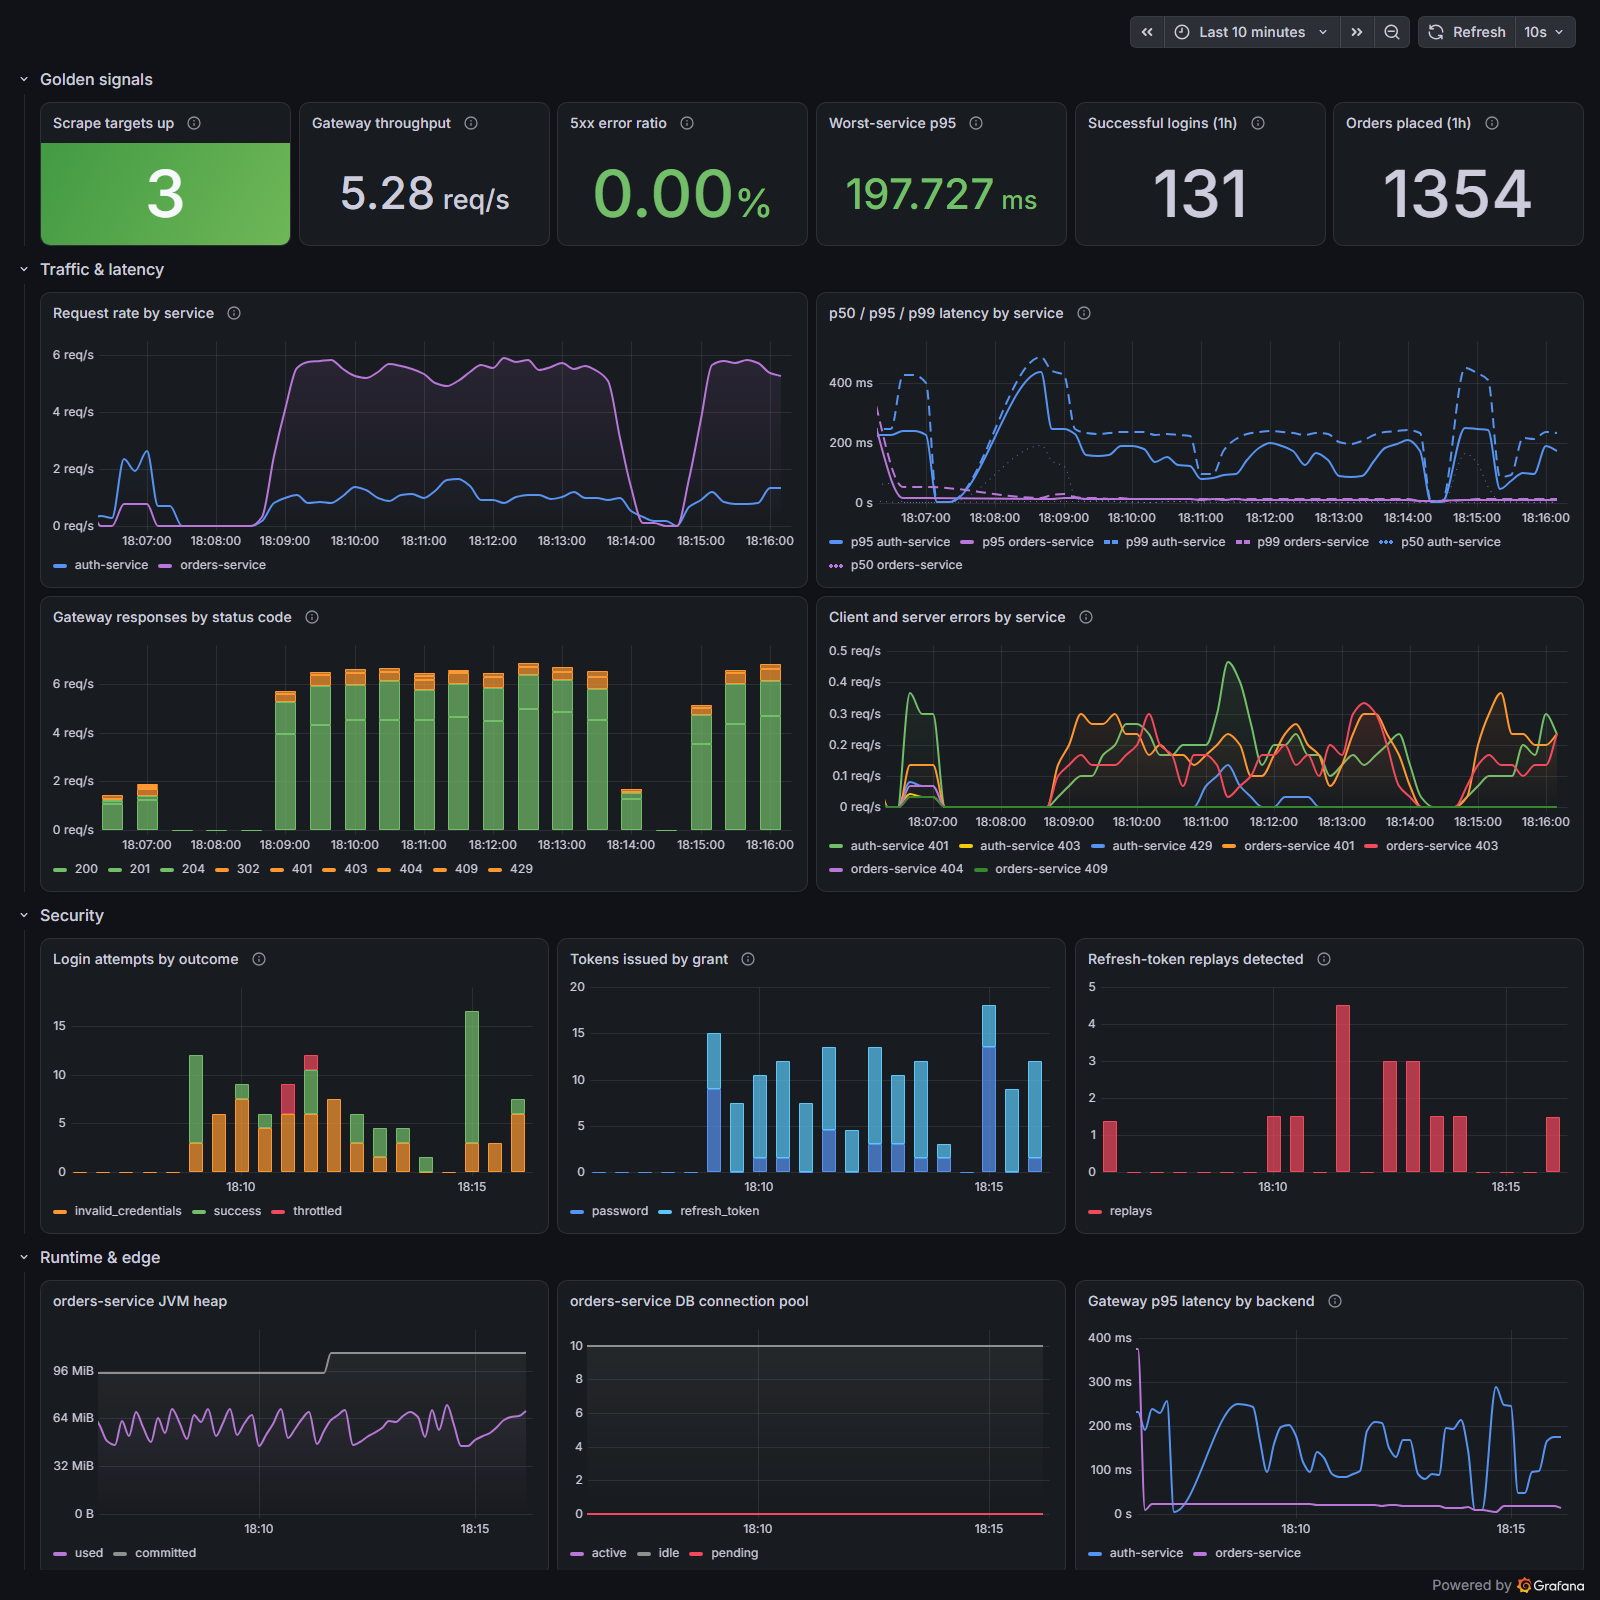
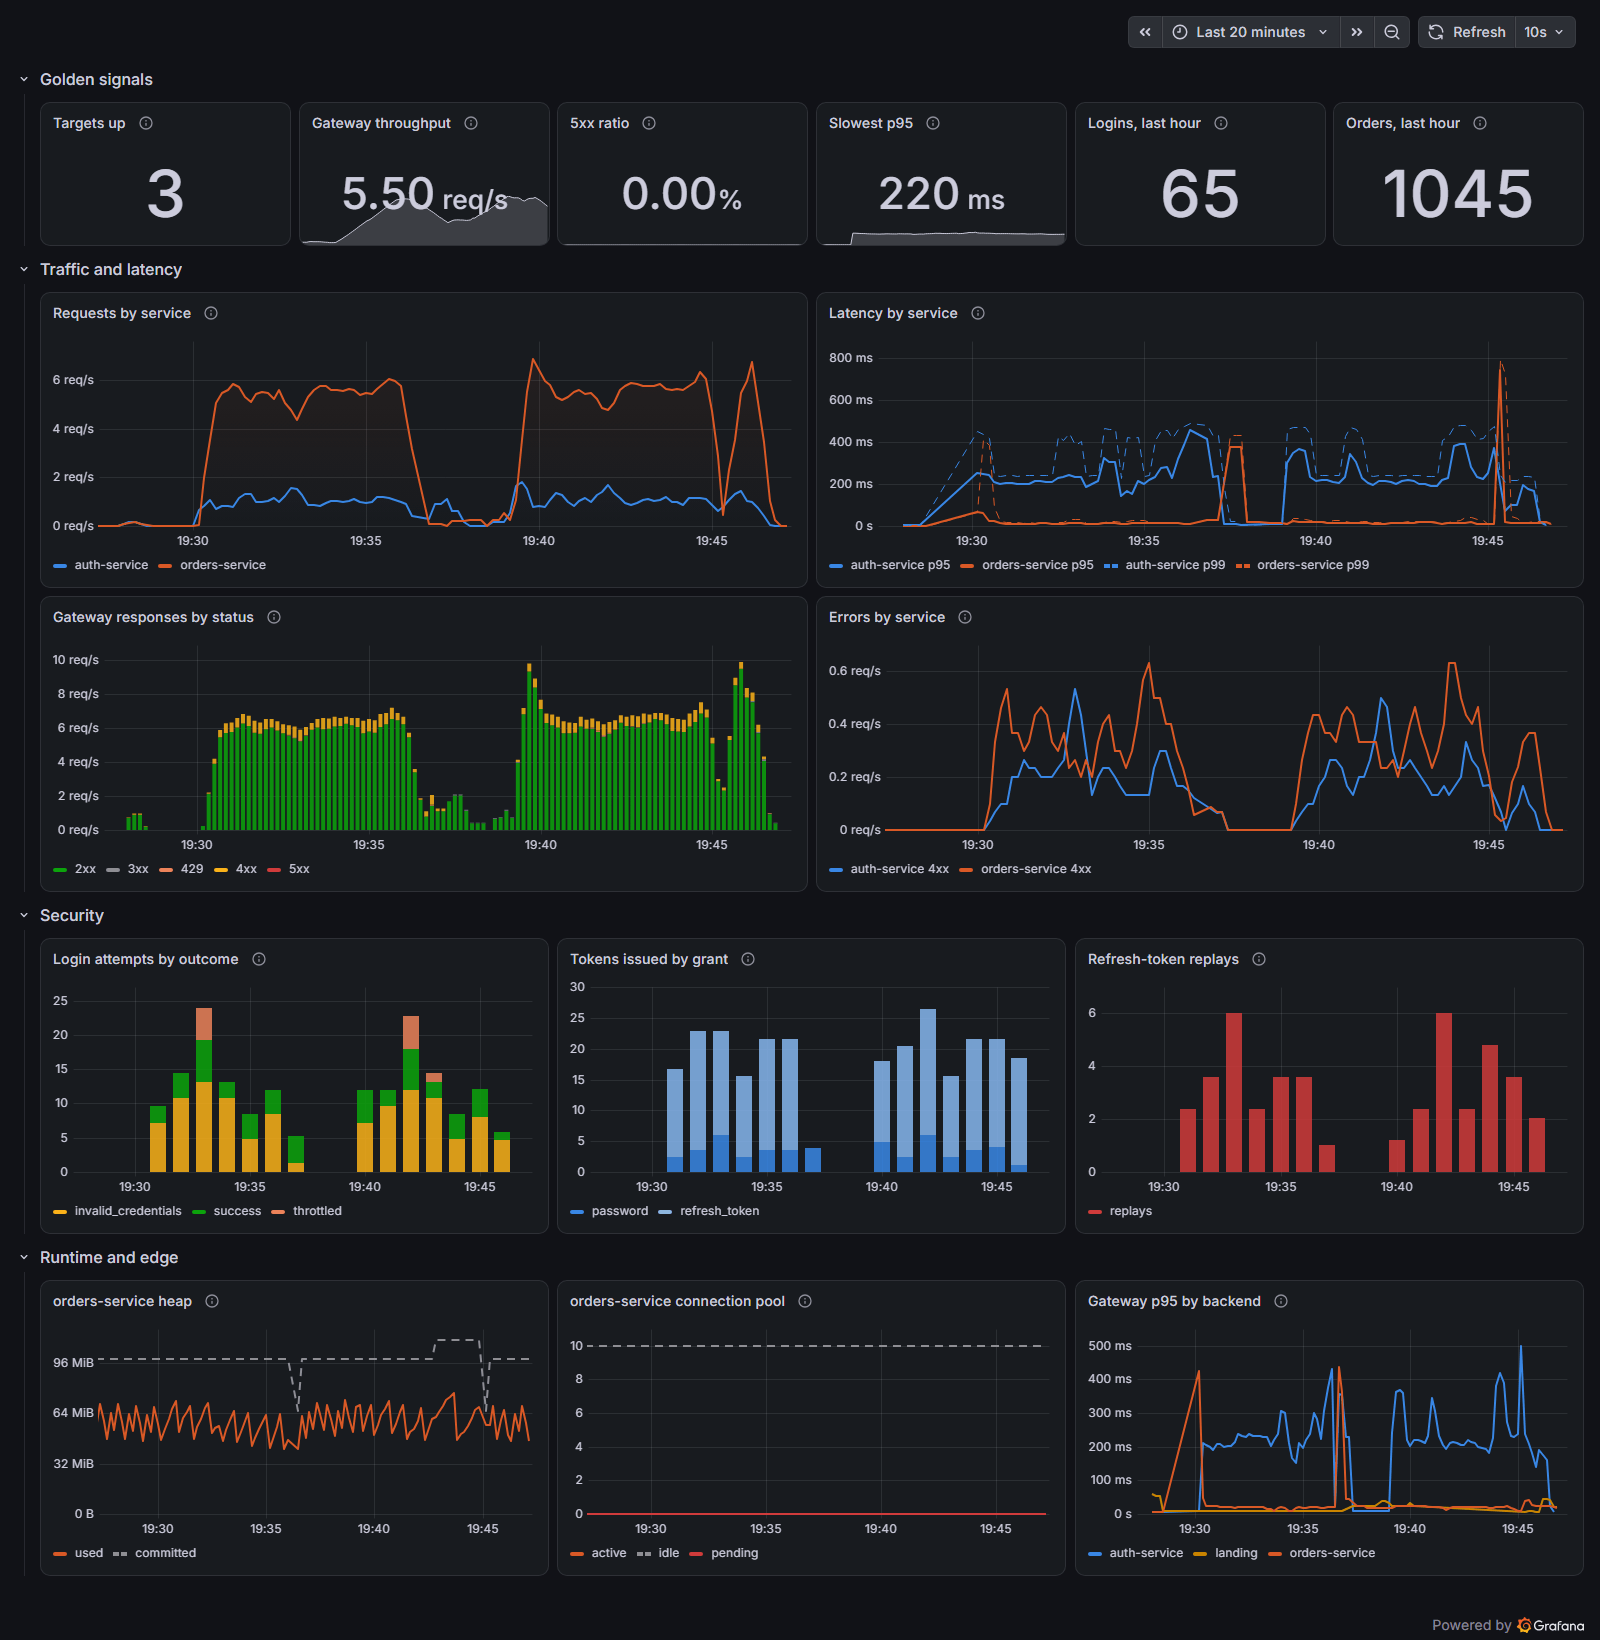
docs: add light/dark README hero and refresh screenshots
New hero SVGs (optimised with svgo, title and role kept), landing and
API docs screenshots, and a refreshed Grafana capture (sharp, palette
PNG). The README documents the landing service, its CSP, the dashboard's
colour system and the current test counts (79 auth, 49 orders, 28 e2e),
and corrects the Prometheus version to 3.15.

diff --git a/README.md b/README.md
@@ -1,3 +1,8 @@
+<picture>
+  <source media="(prefers-color-scheme: dark)" srcset="docs/images/hero-dark.svg">
+  <img alt="Secure Cloud Microservices Platform. Every request, verified." src="docs/images/hero-light.svg" width="100%">
+</picture>
+
 # Secure Cloud Microservices Platform
 
 [![CI](https://github.com/Arya-9989/secure-cloud-microservices-platform/actions/workflows/ci.yml/badge.svg)](https://github.com/Arya-9989/secure-cloud-microservices-platform/actions/workflows/ci.yml)
@@ -6,9 +11,16 @@ A small but production-shaped microservices platform: a **Python identity servic
 
 The platform is deliberately small. The interesting part is the engineering around the services: token lifecycle, authorization boundaries, supply-chain hygiene, and tests that exercise real tokens across language boundaries.
 
-![Grafana dashboard: golden signals, security events and runtime health](docs/screenshots/grafana-dashboard.png)
+The stack opens on a landing page at the gateway root. It explains the security model and probes the public endpoints live from your browser. Both API references share its theme.
 
-<sub>Provisioned Grafana dashboard after running `scripts/demo_traffic.py`. Refresh-token replays and throttled logins are generated on purpose.</sub>
+<picture>
+  <source media="(prefers-color-scheme: dark)" srcset="docs/screenshots/landing-dark.png">
+  <img alt="Landing page at the gateway root: the headline 'Every request, verified.' above a live console that probes the gateway, the auth-service JWKS, the orders-service metadata and the access policy." src="docs/screenshots/landing-light.png">
+</picture>
+
+| Auth API reference | Orders API reference |
+|---|---|
+| ![Auth service Swagger UI in the platform theme](docs/screenshots/auth-api-docs.png) | ![Orders service Swagger UI in the platform theme](docs/screenshots/orders-api-docs.png) |
 
 ## Contents
 
@@ -25,6 +37,7 @@ flowchart LR
     end
 
     subgraph backend ["backend network (internal, no internet)"]
+        landing["landing<br/>nginx (unprivileged)<br/>static page + docs theme"]
         auth["auth-service<br/>Python 3.12 · Django 6.1 · DRF<br/>issues RS256 JWTs + JWKS"]
         orders["orders-service<br/>Java 21 · Spring Boot 4.1<br/>OAuth2 resource server"]
         pg[("PostgreSQL 17<br/>db: auth · db: orders<br/>one role per service")]
@@ -36,6 +49,7 @@ flowchart LR
     end
 
     client -->|HTTPS :8443 / HTTP :8080| gw
+    gw -->|/ and /assets/| landing
     gw -->|/api/v1/auth, /.well-known/jwks.json| auth
     gw -->|/api/v1/orders, /api/v1/products| orders
     orders -. "JWKS fetch (cached, refetch on unknown kid)" .-> auth
@@ -89,9 +103,10 @@ sequenceDiagram
 |---|---|---|---|
 | **auth-service** | Python 3.12, Django 6.1, DRF 3.18, PyJWT, Argon2, gunicorn | Registration, login, RS256 access tokens, rotating refresh tokens, JWKS, user administration | 8000 API · 9100 metrics |
 | **orders-service** | Java 21, Spring Boot 4.1, Spring Security 7, JPA/Hibernate 7, Flyway | Product catalog and orders; OAuth2 resource server enforcing scopes, roles and ownership | 8080 API · 8081 management |
+| **landing** | nginx 1.30 (unprivileged, Alpine) | Static landing page at `/` and the shared theme for both API references. No server-side code; strict CSP with Trusted Types | 8080 (internal only) |
 | **gateway** | Traefik 3.7 (file provider, no Docker socket) | Single entry point, TLS, routing, rate limiting, headers, access logs | 8080 HTTP · 8443 HTTPS · 8082 metrics |
 | **postgres** | PostgreSQL 17 | Separate database and least-privilege role per service | 5432 (internal only) |
-| **prometheus** / **grafana** | Prometheus 3.9, Grafana 13.2 | Metrics, alert rules, provisioned dashboard | 9090 / 3000 (localhost only) |
+| **prometheus** / **grafana** | Prometheus 3.15, Grafana 13.2 | Metrics, alert rules, provisioned dashboard | 9090 / 3000 (localhost only) |
 
 ## Security model
 
@@ -110,6 +125,7 @@ sequenceDiagram
 | Secrets in source | None. `scripts/init_env.py` generates `.env` locally (git-ignored), and the services refuse to start without required secrets | `.env.example`, `settings.py` |
 | Container breakout / lateral movement | Non-root users, read-only root filesystems, all capabilities dropped, `no-new-privileges`, distroless JVM image. K8s adds restricted Pod Security and default-deny NetworkPolicies | Dockerfiles, `compose.yaml`, `deploy/k8s/` |
 | Vulnerable dependencies | `pip-audit` on locked Python deps. Trivy fails CI on fixable HIGH/CRITICAL in either image (OS and language packages). Dependabot keeps everything current | `.github/workflows/ci.yml` |
+| Script injection in browser-facing pages | No inline script or style anywhere. The landing page sends `default-src 'none'` with `script-src 'self'` and `require-trusted-types-for 'script'`, and writes to the DOM through `textContent` only. Both Swagger UI pages run under `script-src 'self'` without `'unsafe-inline'`: their bootstrap scripts are files and every asset is self-hosted | `services/landing/`, `auth_service/settings.py`, `SecurityConfig.java` |
 | Transport | HTTPS entry point (TLS 1.2+, AEAD ciphers) with HSTS. HTTP→HTTPS redirect is a one-line production switch | `gateway/` |
 
 Errors on both services, including 401 and 403, are [RFC 9457](https://www.rfc-editor.org/rfc/rfc9457) `application/problem+json` documents carrying the `request_id`. The orders service also publishes [RFC 9728](https://www.rfc-editor.org/rfc/rfc9728) protected-resource metadata, which it advertises in `WWW-Authenticate`.
@@ -119,6 +135,7 @@ Errors on both services, including 401 and 403, are [RFC 9457](https://www.rfc-e
 - **Python:** 3.12, Django 6.1, Django REST framework, PyJWT + cryptography, argon2-cffi, psycopg 3, gunicorn, drf-spectacular. Tooling: uv (locked), ruff, mypy `--strict`, pytest, pip-audit.
 - **Java:** 21, Spring Boot 4.1 (Spring Framework 7, Spring Security 7), Hibernate 7, Flyway, Micrometer, springdoc-openapi. Tooling: Maven wrapper, Spotless (google-java-format), `-Werror`, JUnit 5, Testcontainers.
 - **Platform:** Docker (multi-stage, non-root, distroless JVM runtime), Docker Compose, Traefik, PostgreSQL, Prometheus, Grafana, Kustomize.
+- **Web:** hand-written HTML, CSS and one small script, served by unprivileged nginx. Inter and JetBrains Mono are self-hosted (SIL Open Font License). Each service self-hosts its Swagger UI assets.
 - **Delivery:** GitHub Actions (SHA-pinned), Jenkins, Trivy, GHCR, Dependabot, kubeconform.
 
 ## Quickstart
@@ -135,6 +152,7 @@ docker compose up --build --wait           # ~2-3 min on first build
 
 | URL | What |
 |---|---|
+| http://localhost:8080/ | Landing page: architecture, security model and live endpoint probes |
 | http://localhost:8080/docs/auth/ | Auth service Swagger UI |
 | http://localhost:8080/docs/orders/swagger-ui.html | Orders service Swagger UI |
 | https://localhost:8443 | Same routes over TLS (self-signed locally) |
@@ -214,10 +232,16 @@ Roles map to scopes in one place ([`ROLE_SCOPES`](services/auth-service/accounts
 
 - **Metrics:** Both services export the same `http_server_requests_seconds{method,uri,status}` histogram: Micrometer on the JVM, and a matching hand-rolled metric in Python. One PromQL query therefore covers every service. Gunicorn runs several worker processes, so auth-service aggregates them with prometheus_client's multiprocess mode and serves the result from the gunicorn master on an internal port. Business and security metrics include `auth_login_attempts_total{outcome}`, `auth_tokens_issued_total{grant_type}`, `auth_refresh_token_reuse_detected_total` and `orders_placed_total`.
 - **Dashboard:** The provisioned Grafana dashboard ([JSON](observability/grafana/dashboards/platform-overview.json)) has four rows:
-  - golden signals: targets up, throughput, 5xx ratio, worst-service p95
-  - per-service traffic and latency quantiles
-  - security events: login outcomes, token grants, refresh replays
-  - runtime: JVM heap, connection pool, edge latency
+  - golden signals: targets up, gateway throughput, 5xx ratio, slowest p95, logins and orders in the last hour
+  - traffic and latency: requests and p95/p99 latency per service, gateway responses by status class (429s split out), errors by service
+  - security events: login outcomes, token grants, refresh-token replays
+  - runtime and edge: JVM heap, connection pool, gateway p95 per backend
+
+  Every panel has a description and a fixed unit. Each service keeps one colour on every panel (auth-service blue, orders-service orange, gateway green, landing amber). Status colours are reserved for status, such as 2xx, 4xx, 429 and 5xx or login outcomes. Stat tiles stay neutral until they cross the matching alert threshold.
+![Grafana dashboard: golden signals, traffic and latency, security events and runtime health](docs/screenshots/grafana-dashboard.png)
+
+<sub>Provisioned Grafana dashboard after running `scripts/demo_traffic.py`. Refresh-token replays and throttled logins are generated on purpose.</sub>
+
 - **Alerts:** [Prometheus rules](observability/prometheus/alerts.yml) cover target down, 5xx ratio > 5 %, p95 > 1 s, refresh-token replay and sustained failed logins. They are visible under Prometheus → Alerts. Routing them to a pager is listed as future work.
 - **Logs:** Every component writes one JSON object per line with a shared schema (`@timestamp`, `level`, `logger_name`, `message`, `service`, `request_id`, `user_id`). Each request produces exactly one access-log line with route, status and duration.
 - **Correlation:** A client-supplied `X-Request-ID` (validated: 8–128 safe characters) is kept, and otherwise one is generated. The ID is echoed in the response, attached to every log line and problem response, and recorded by the gateway access log. The `Authorization` header is redacted there.
@@ -234,12 +258,13 @@ orders   {"message":"GET /api/v1/products 200","request_id":"smoke-test-0001","u
 | Job | What it proves |
 |---|---|
 | `auth-service` | Locked install, ruff, `mypy --strict`, pytest with coverage **against PostgreSQL**, `pip-audit`, image build, Trivy scan |
+| `landing` | Script syntax check, image build (runs `nginx -t`), Trivy scan |
 | `orders-service` | Spotless, `-Werror` compile, JUnit + Testcontainers (real PostgreSQL), image build, Trivy scan |
 | `platform-config` | `kustomize` + `kubeconform -strict`, compose validation, lint/type-check of e2e tests and scripts |
 | `e2e` | `docker compose up --wait` of the full stack, then the black-box suite through the gateway; logs dumped on failure |
 | `publish` (main only) | Pushes both images to GHCR with branch and immutable `sha-` tags, provenance and SBOM attestations |
 
-Trivy fails the build on any **fixable HIGH/CRITICAL** vulnerability in the OS or language packages. No ignore list is needed today.
+Trivy fails the build on any **fixable HIGH/CRITICAL** vulnerability in the OS or language packages of all three images. No ignore list is needed today.
 
 A [`Jenkinsfile`](Jenkinsfile) implements the same stages with Docker agents for teams that run Jenkins. Its e2e stage reuses the exact images that were scanned. [Dependabot](.github/dependabot.yml) proposes weekly updates for uv, Maven, Docker, Compose and Actions.
 
@@ -247,13 +272,13 @@ A [`Jenkinsfile`](Jenkinsfile) implements the same stages with Docker agents for
 
 | Suite | Count | Run | Highlights |
 |---|---|---|---|
-| auth-service | 76 unit/API tests, 96 % line coverage | `cd services/auth-service && uv run pytest` | RFC 7638 test vector, alg-none / HS256 confusion / foreign-key forgery, rotation + replay, absolute session expiry, throttling, admin authorization, log schema, migrations in sync |
-| orders-service | 48 JUnit tests | `cd services/orders-service && ./mvnw verify` | Full authorization matrix, real RS256 tokens against a JWKS stub (expired, wrong iss/aud, missing sub, HS256, unsigned, foreign key), **key rotation without restart**, ownership 404s, state machine, Flyway on real PostgreSQL |
-| end-to-end | 26 black-box tests | `cd tests/e2e && uv run pytest` (stack running) | Cross-service token verification, forged tokens, per-account throttling, session revocation, correlation IDs, HTTPS/HSTS, docs routing, Prometheus targets and series, Grafana provisioning, edge 429s |
+| auth-service | 79 unit/API tests, 96 % line coverage | `cd services/auth-service && uv run pytest` | RFC 7638 test vector, alg-none / HS256 confusion / foreign-key forgery, rotation + replay, absolute session expiry, throttling, admin authorization, log schema, migrations in sync |
+| orders-service | 49 JUnit tests | `cd services/orders-service && ./mvnw verify` | Full authorization matrix, real RS256 tokens against a JWKS stub (expired, wrong iss/aud, missing sub, HS256, unsigned, foreign key), **key rotation without restart**, ownership 404s, state machine, Flyway on real PostgreSQL |
+| end-to-end | 28 black-box tests | `cd tests/e2e && uv run pytest` (stack running) | Cross-service token verification, forged tokens, per-account throttling, session revocation, correlation IDs, HTTPS/HSTS, docs routing, landing page and docs under strict CSP, Prometheus targets and series, Grafana provisioning, edge 429s |
 
 ## Deploying to Kubernetes
 
-[`deploy/k8s/`](deploy/k8s) is a Kustomize base for the application tier. PostgreSQL is assumed to be a managed service, and the cluster is assumed to run a Traefik ingress controller.
+[`deploy/k8s/`](deploy/k8s) is a Kustomize base for the API tier. The landing page and the API docs belong to the compose stack only (`API_DOCS_ENABLED` is `false` in the manifests). PostgreSQL is assumed to be a managed service, and the cluster is assumed to run a Traefik ingress controller.
 
 ```bash
 kubectl create namespace secure-platform
@@ -293,6 +318,7 @@ CI validates them with `kubeconform -strict`. They have not been applied to a li
 │   │   ├── tests/               #   pytest suite
 │   │   ├── gunicorn.conf.py     #   workers + multiprocess metrics server
 │   │   └── Dockerfile, pyproject.toml, uv.lock
+│   ├── landing/                 # static landing page + shared docs theme (nginx)
 │   └── orders-service/          # Spring Boot resource server
 │       ├── src/main/java/…/     #   config (security, JWT), catalog, order, web
 │       ├── src/main/resources/  #   application.yml, Flyway migrations
@@ -305,7 +331,7 @@ CI validates them with `kubeconform -strict`. They have not been applied to a li
 │   └── postgres/                # per-service database bootstrap
 ├── tests/e2e/                   # black-box suite against the compose stack
 ├── scripts/                     # init_env.py (secrets), demo_traffic.py
-├── docs/screenshots/
+├── docs/                        # README hero (images/) and screenshots/
 ├── compose.yaml
 ├── Jenkinsfile
 └── .github/                     # CI workflow, Dependabot
@@ -321,6 +347,7 @@ CI validates them with `kubeconform -strict`. They have not been applied to a li
 - **Database-backed throttle cache.** Login throttles must be shared across gunicorn workers and replicas. Using the existing PostgreSQL avoids adding Redis just for counters; login is low-volume enough for this.
 - **Traefik with the file provider.** Routes are reviewed as code, and the gateway never gets the Docker socket, which is effectively root on the host.
 - **Spring Boot 4.1 rather than 3.5.** Boot 3.5 left OSS support in June 2026. Its Spring Framework 6.2 line has CRITICAL CVEs with fixes only in 7.x, so upgrading was the way to keep the Trivy gate strict without an ignore list.
+- **The landing page is its own static service.** It explains the whole platform, so it should not live inside one API, and a separate unprivileged nginx container keeps its strict CSP (Trusted Types, no inline code) independent of the APIs. The live probes call only public endpoints through the gateway; health and metrics ports stay unrouted. The shared docs theme is served from the same place, and without it the docs fall back to stock Swagger UI.
 - **Monorepo.** Contracts that span services (token claims, metrics schema, gateway routes, e2e tests) change atomically in one pull request.
 
 ## Roadmap (future work)
